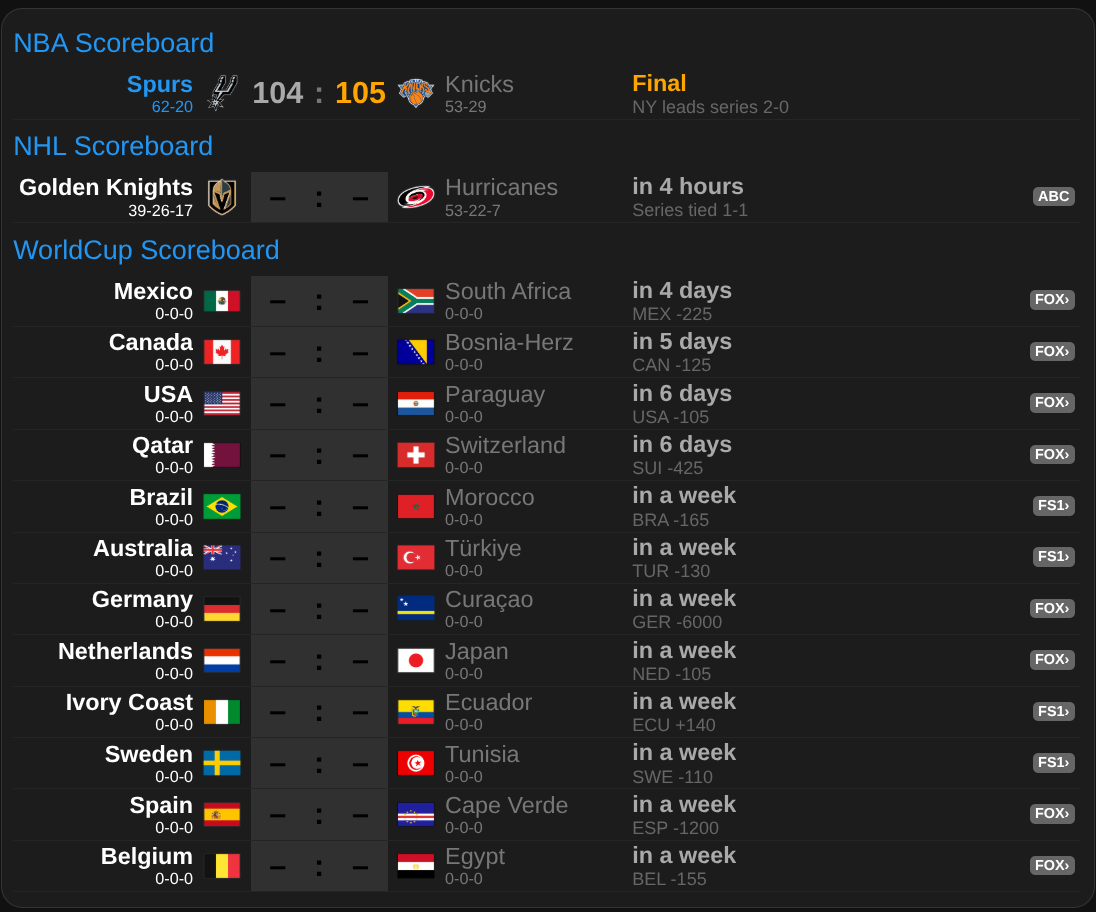
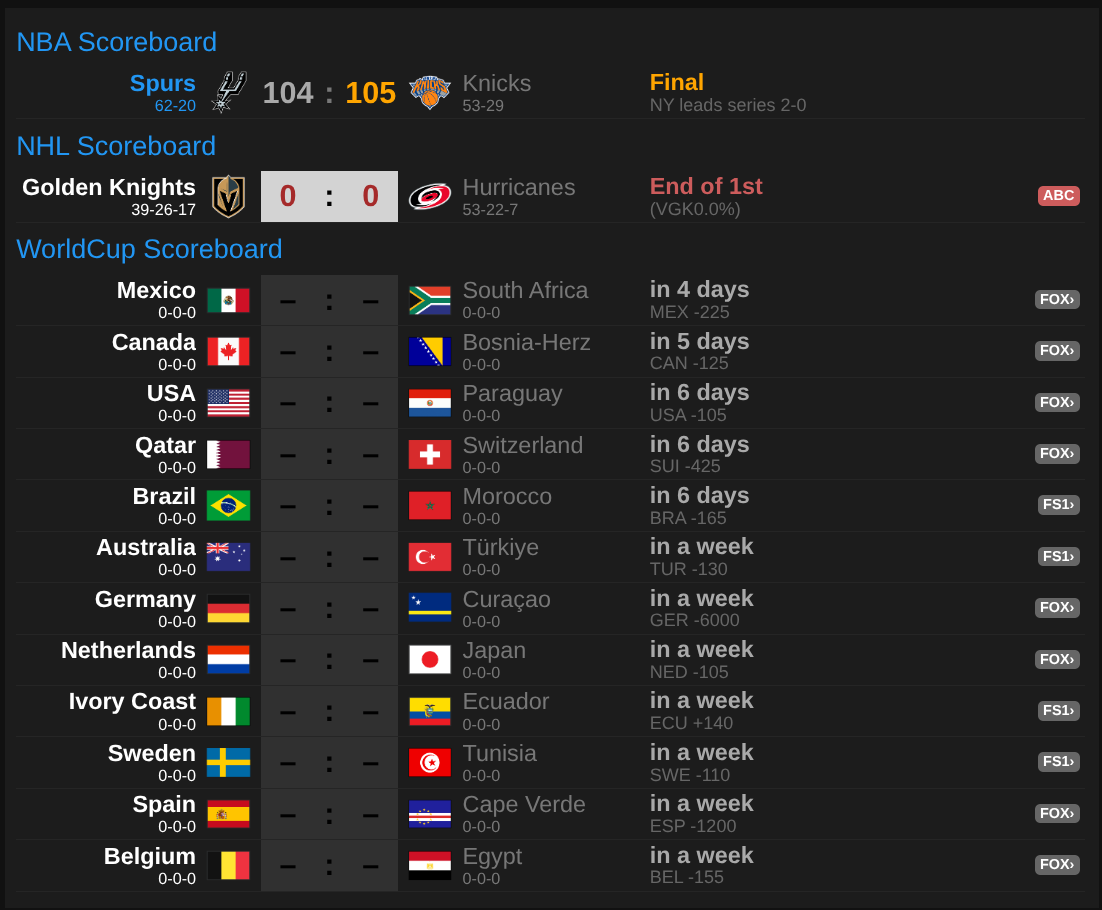
colon + preview

diff --git a/src/styles.js b/src/styles.js
@@ -61,8 +61,8 @@ export const CARD_STYLES = `
   .logo-a { padding-right: 3px; }
   .logo-b { padding-left:  3px; }
   .logo img {
-    width: 26px;
-    height: 26px;
+    width: 28px;
+    height: 28px;
     object-fit: contain;
     display: block;
   }
@@ -72,16 +72,16 @@ export const CARD_STYLES = `
     min-width: 30px;
     font-size: 17px;
     font-weight: bold;
-    text-align: center;
     height: 28px;
     display: flex;
     align-items: center;
-    justify-content: center;
   }
+  .score-a { justify-content: flex-end; }
+  .score-b { justify-content: flex-start; }
 
   .colon {
-    width: 8px;
-    min-width: 8px;
+    width: 7px;
+    min-width: 7px;
     font-size: 17px;
     font-weight: bold;
     text-align: center;

diff --git a/dist/card.js b/dist/card.js
@@ -283,8 +283,8 @@ const CARD_STYLES = `
   .logo-a { padding-right: 3px; }
   .logo-b { padding-left:  3px; }
   .logo img {
-    width: 26px;
-    height: 26px;
+    width: 28px;
+    height: 28px;
     object-fit: contain;
     display: block;
   }
@@ -294,16 +294,16 @@ const CARD_STYLES = `
     min-width: 30px;
     font-size: 17px;
     font-weight: bold;
-    text-align: center;
     height: 28px;
     display: flex;
     align-items: center;
-    justify-content: center;
   }
+  .score-a { justify-content: flex-end; }
+  .score-b { justify-content: flex-start; }
 
   .colon {
-    width: 8px;
-    min-width: 8px;
+    width: 7px;
+    min-width: 7px;
     font-size: 17px;
     font-weight: bold;
     text-align: center;
